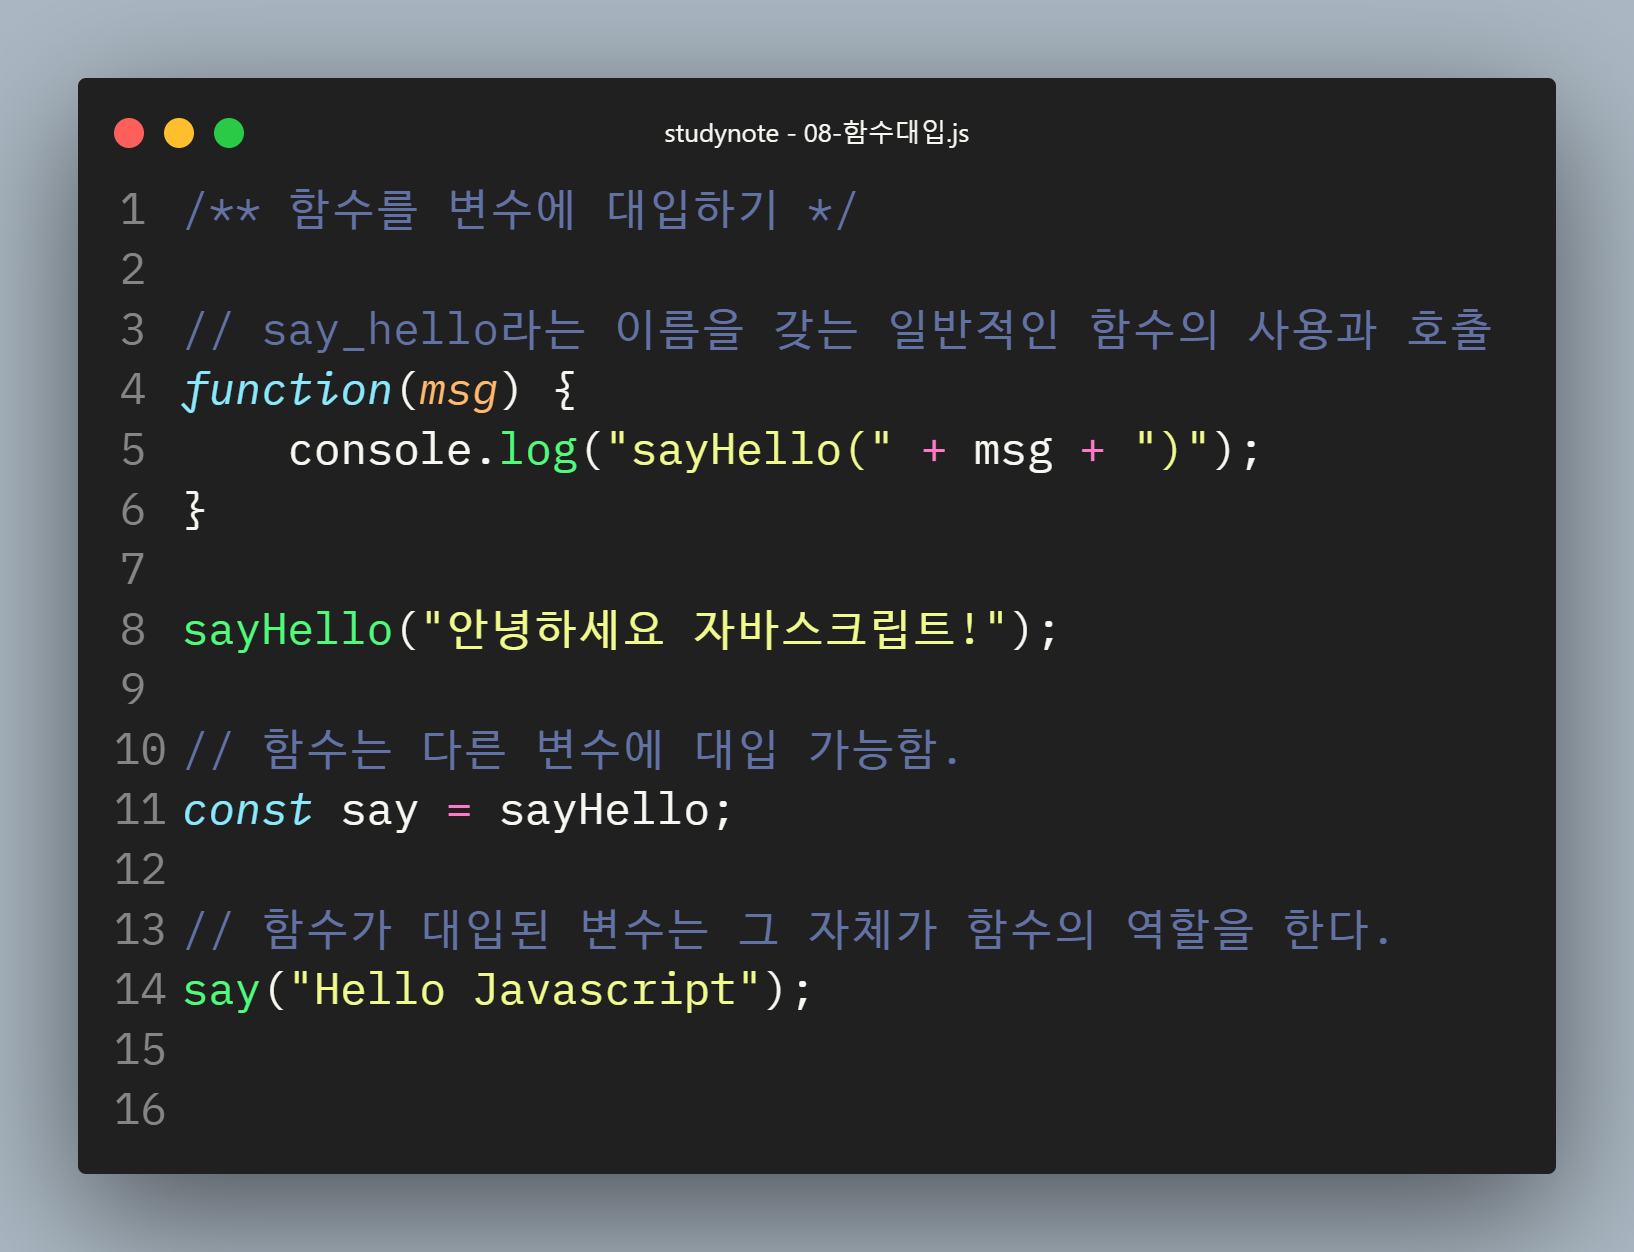
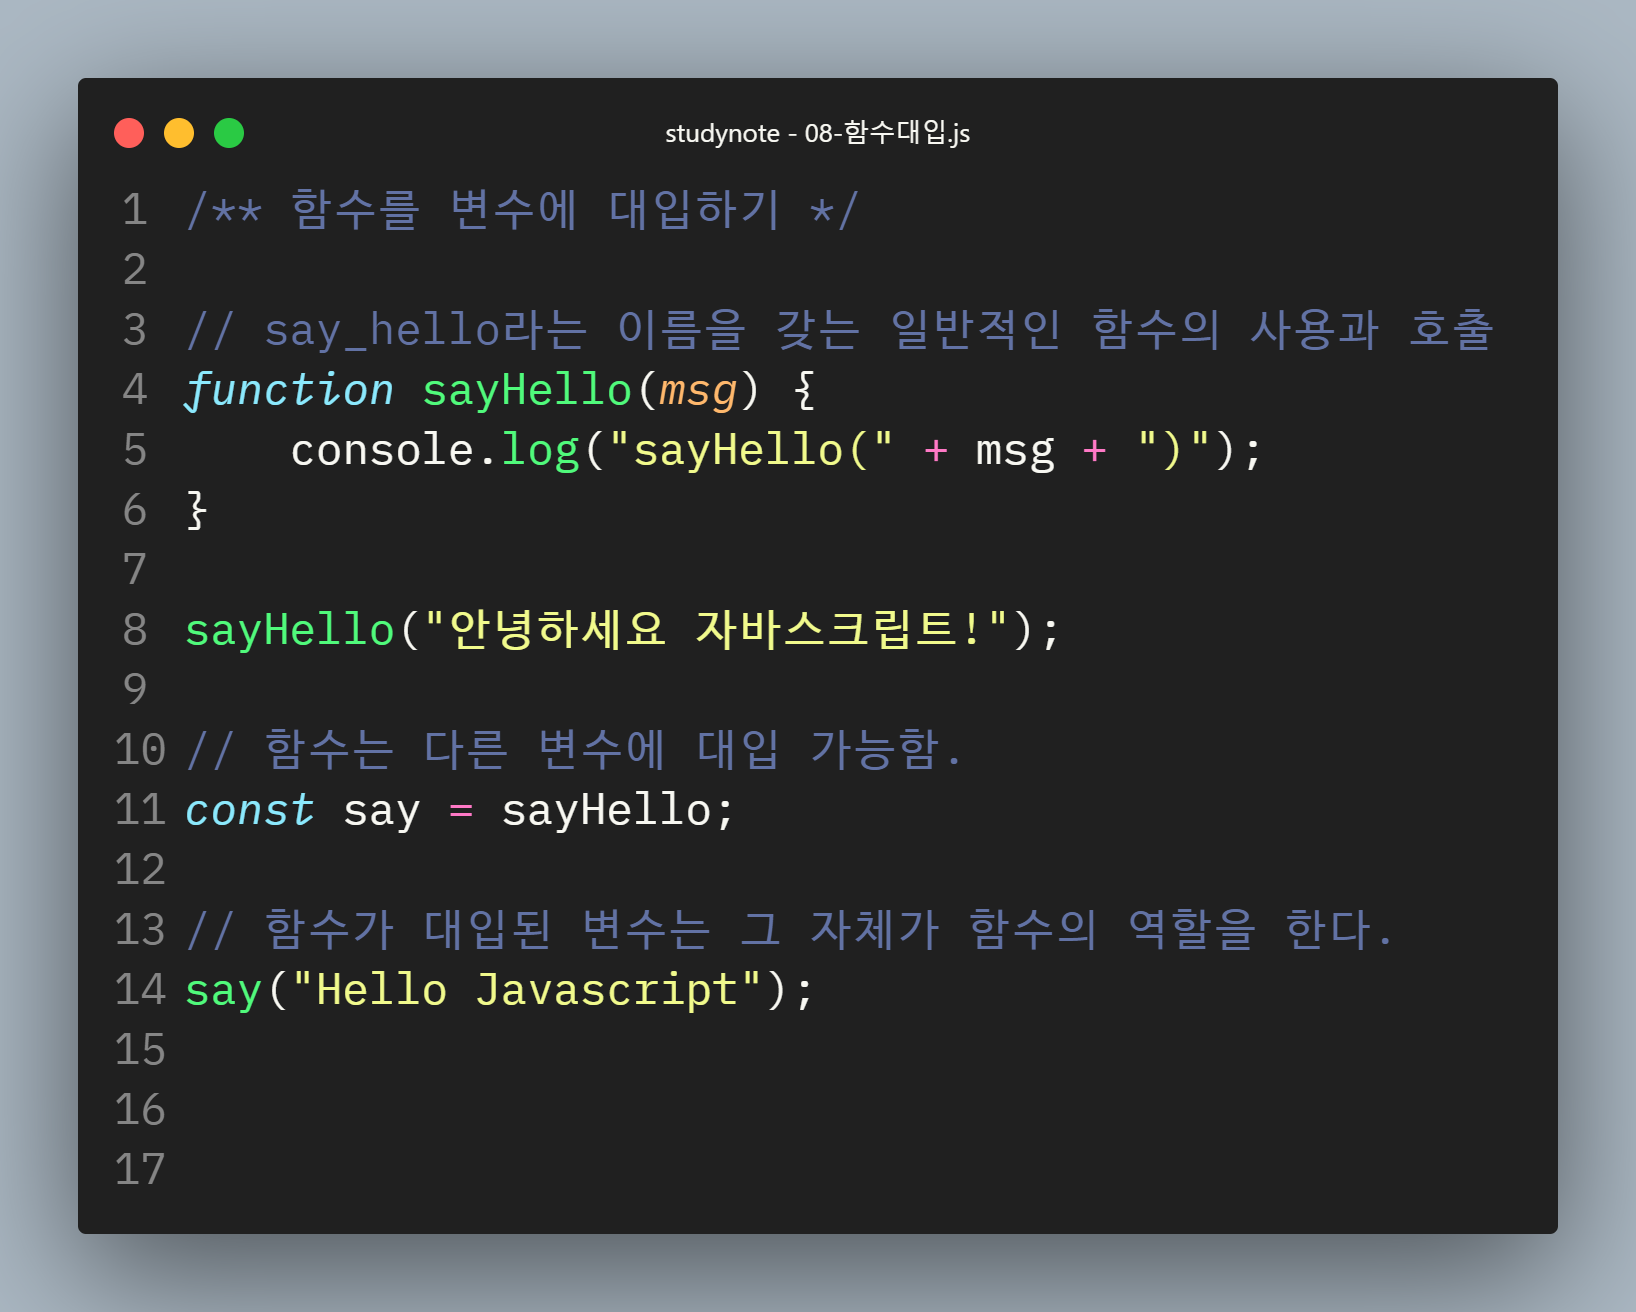
Funcion anonymous

diff --git a/.history/02-Javascript/08-함수/08-함수대입_20220208161911.js b/.history/02-Javascript/08-함수/08-함수대입_20220208161911.js
@@ -1,0 +1,14 @@
+//함수를 변수에 대입하기
+
+//say_hello라는 이름을 갖는 일반적인 함수의 사용과 호출
+function say_hello(msg) {
+  console.log('sayHello(' + msg + ')');
+}
+
+say_hello('안녕하세요 자바스크립트!');
+
+//함수는 다른 변수에 대입 가능함.
+const say = sayHello;
+
+//함수가 대입된 변수는 그 자체가 함수의 역할을 한다.
+say('Hello Javascript');

diff --git a/02-Javascript/08-함수/08-함수대입.js b/02-Javascript/08-함수/08-함수대입.js
@@ -1,0 +1,14 @@
+//함수를 변수에 대입하기
+
+//say_hello라는 이름을 갖는 일반적인 함수의 사용과 호출
+function say_hello(msg) {
+  console.log('sayHello(' + msg + ')');
+}
+
+say_hello('안녕하세요 자바스크립트!');
+
+//함수는 다른 변수에 대입 가능함.
+const say = sayHello;
+
+//함수가 대입된 변수는 그 자체가 함수의 역할을 한다.
+say('Hello Javascript');

diff --git a/.history/02-Javascript/08-함수/09-익명함수_20220208162144.js b/.history/02-Javascript/08-함수/09-익명함수_20220208162144.js
@@ -1,0 +1,7 @@
+//anonymous function
+const say = function (msg) {
+  console.log('sayHello(' + msg + ')');
+};
+
+//함수가 대입된 변수는 그자체가 함수의 역할을 한다.
+say('Hello Javascript');

diff --git a/02-Javascript/08-함수/09-익명함수.js b/02-Javascript/08-함수/09-익명함수.js
@@ -1,0 +1,7 @@
+//anonymous function
+const say = function (msg) {
+  console.log('sayHello(' + msg + ')');
+};
+
+//함수가 대입된 변수는 그자체가 함수의 역할을 한다.
+say('Hello Javascript');

diff --git a/02-Javascript/09-프로토타입/연습문제.md b/02-Javascript/09-프로토타입/연습문제.md
@@ -1,0 +1,44 @@
+# 프로토타입 연습문제
+
+## 문제1. 
+
+국어, 영어, 수학 점수를 생성자 파라미터로 입력받아서 합계와 평균을 구하는 클래스 Student를 작성하시오.
+
+이 때 Stuent 클래스는 합계를 리턴하는 메서드인 `sum()`과 평균을 리턴하는 `avg()`를 제공합니다.
+
+작성된 클래스를 활용하여 아래 표에 대한 학생별 합계 점수와 평균점수를 출력하시오.
+
+클래스는 JSON 형식으로 작성되어야 합니다.
+
+| 이름 | 국어 | 영어 | 수학 |
+|---|---|---|---|
+| 철수 | 92 | 81 | 77 |
+| 영희 | 72 | 95 | 98 |
+| 민혁 | 80 | 86 | 84 |
+
+
+#### 출력결과
+
+```
+철수의 총점은 249점 이고 평균은 83점 입니다.
+영희의 총점은 251점 이고 평균은 83.66666666666667점 입니다.
+민혁의 총점은 264점 이고 평균은 88점 입니다.
+```
+
+
+## 문제2.
+
+가로(`width`), 세로(`height`)정보를 getter, setter로 관리하는 Rectangle 클래스를 정의하시오.
+
+이 클래스는 생성자의 파라미터가 없으며 둘레의 길이를 구해 리턴하는 getAround() 메서드와 넓이를 구해 리턴하는 gerArea() 메서드를 제공합니다.
+
+클래스는 JSON 형식으로 작성되어야 합니다.
+
+
+#### 출력결과
+
+가로가 10이고 세로가 5인 경우
+
+```
+둘레의 길이는 30이고 넓이는 50입니다.
+```

diff --git a/02-Javascript/08-함수/연습문제.md b/02-Javascript/08-함수/연습문제.md
@@ -88,3 +88,13 @@ myGame(35)를 호출한 경우
 ...
 
 ```
+
+
+
+## 문제4
+
+문제1번을 화살표 함수가 적용된 재귀함수 기법으로 다시 구현해 보세요.
+
+## 문제5 
+
+문제2번을 화살표 함수가 적용된 재귀함수 기법으로 다시 구현해 보세요.
